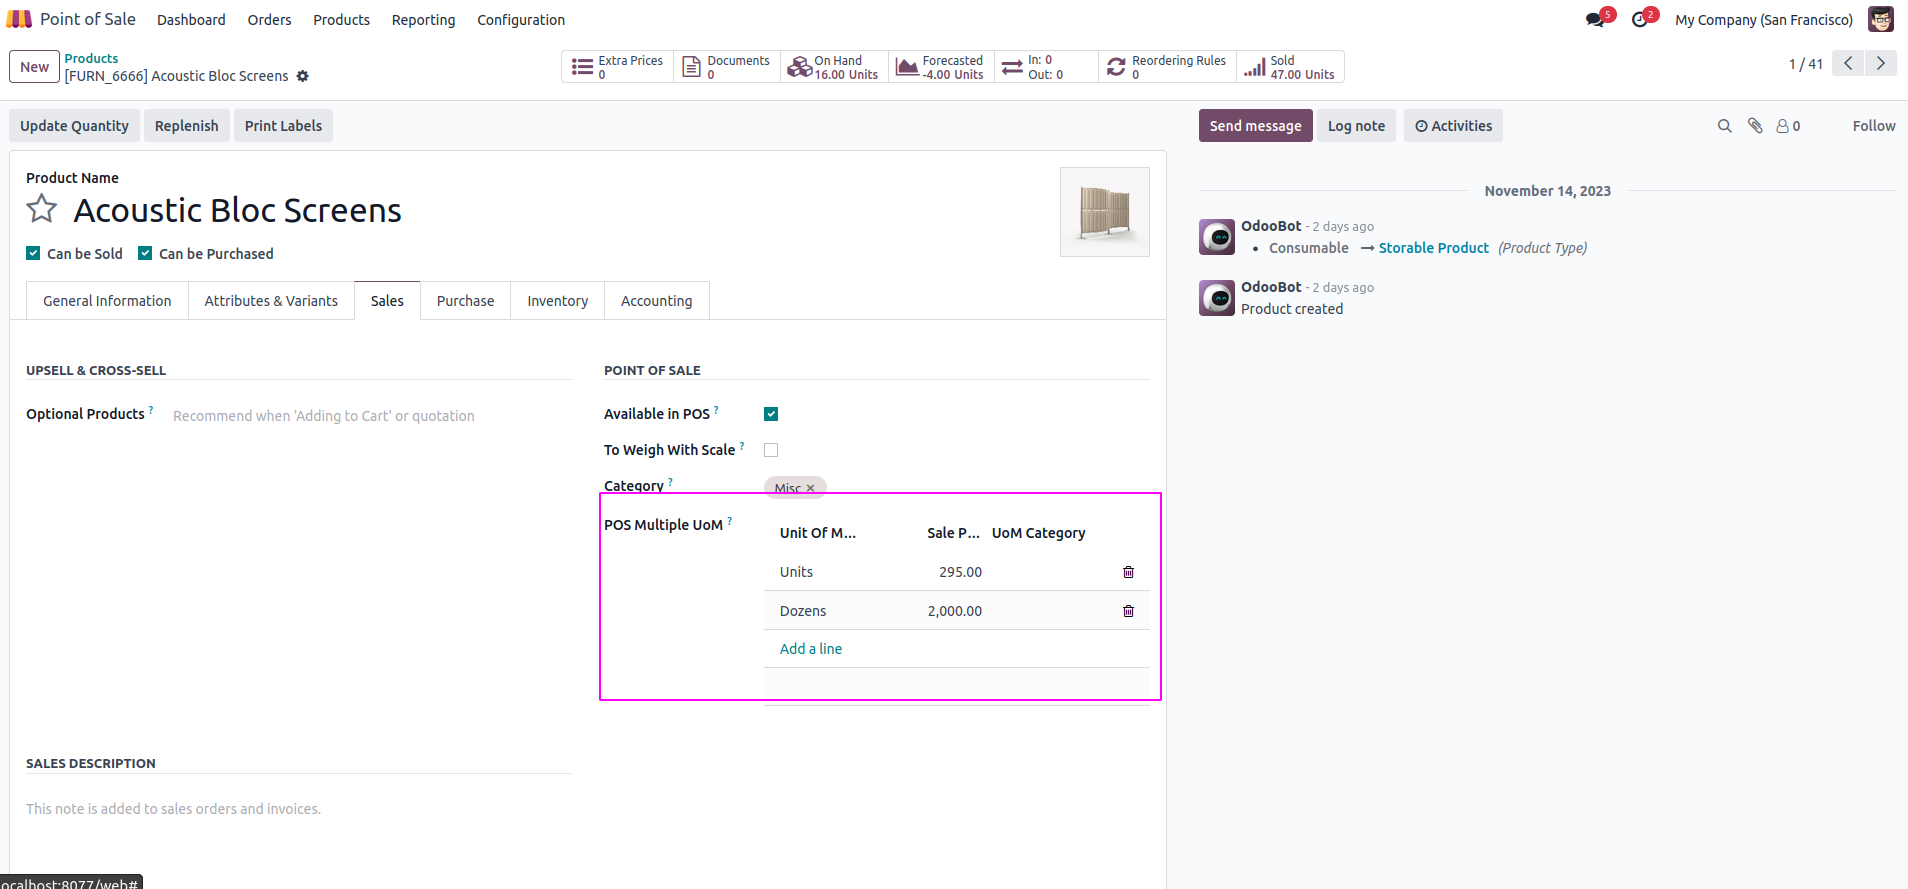
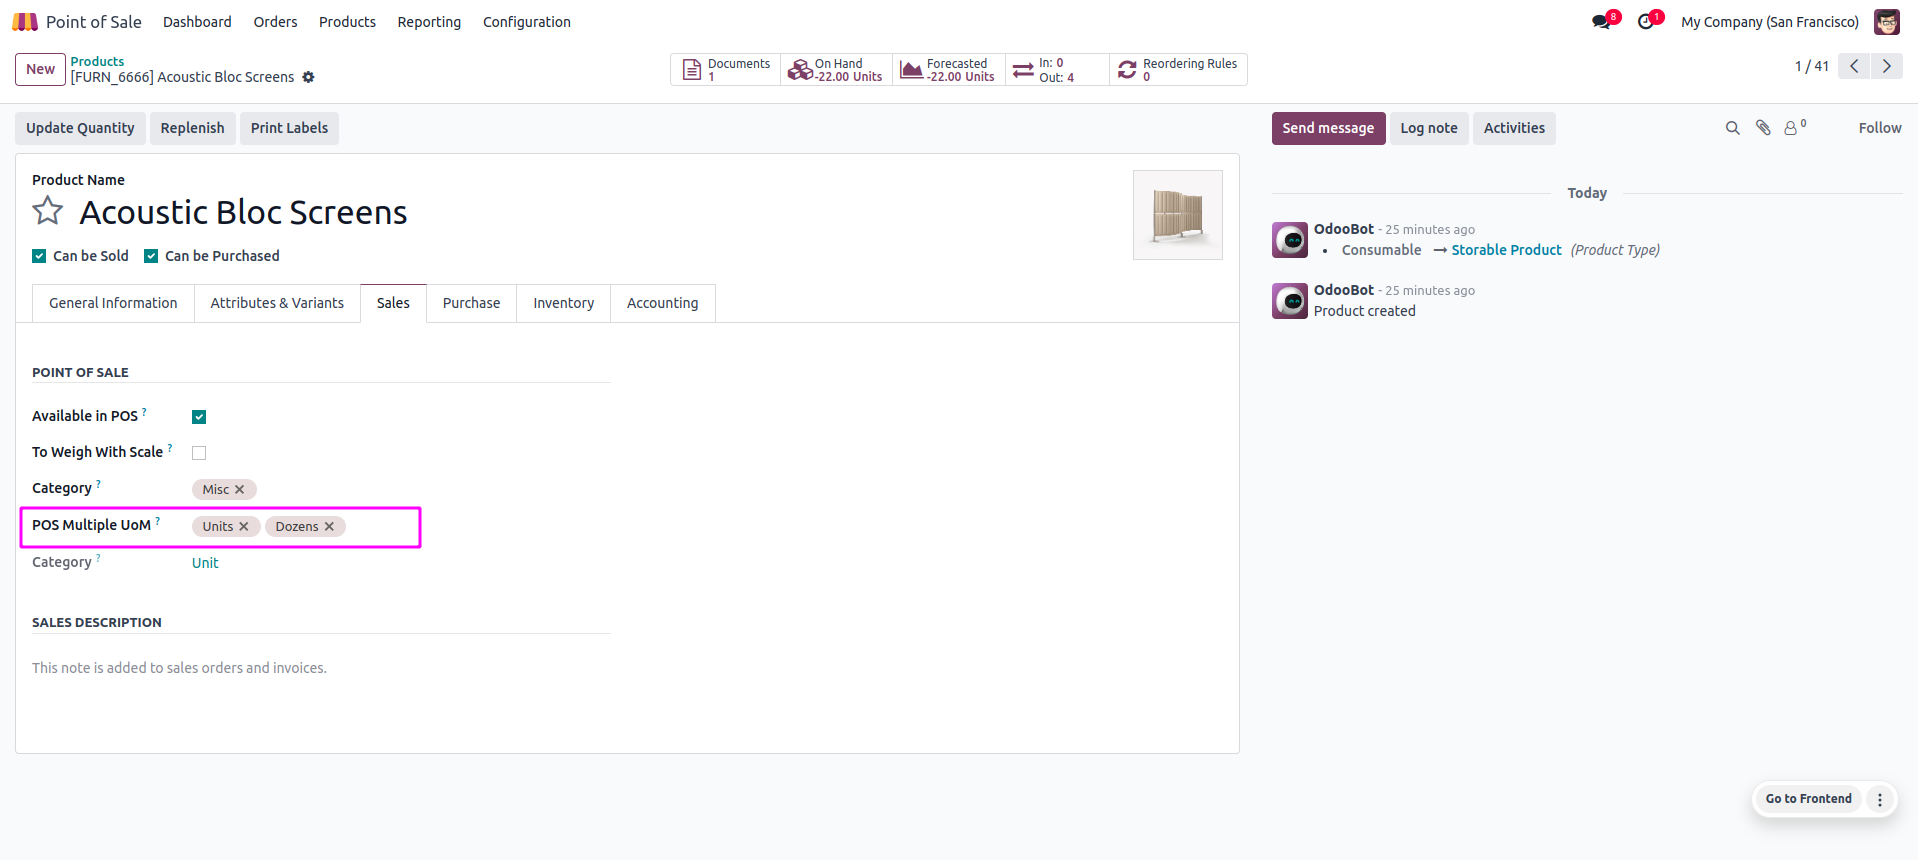
Oct 16: [FIX] Bug fixed 'product_multi_uom_pos'

diff --git a/product_multi_uom_pos/static/description/index.html b/product_multi_uom_pos/static/description/index.html
@@ -169,11 +169,43 @@
                                     style=" font-weight:600 !important; color:#282F33 !important; font-size:1.3rem !important">
                                     Form View of Product </h4>
                                 <p style="font-weight: 400; font-family: 'Montserrat', sans-serif; font-size: 14px;">
-                                    If 'Multiple Unit of Measure' option is
-                                    enabled, you can add
+                                    You can add
                                     multiple units of measures and its price
                                     under 'Sales' tab of
                                     Products as shown.</p>
+
+                            </div>
+                        </div>
+                    </div>
+                    <div class="col-lg-12 py-2"
+                         style="padding: 1rem 4rem !important;">
+                        <div
+                                style="border: 1px solid #d8d6d6; border-radius: 4px;  background: #fff; box-shadow: 0 2px 4px rgba(0, 0, 0, 0.1);">
+                            <div class="row justify-content-center p-3 w-100 m-0">
+                                <img src="assets/screenshots/9.png"
+                                     class="img-responsive" width="100%"
+                                     height="auto">
+                            </div>
+                            <div class="px-3">
+                                <p style="font-weight: 400; font-family: 'Montserrat', sans-serif; font-size: 14px;">
+                                    You can UOM in UOM categories in the Inventory module</p>
+
+                            </div>
+                        </div>
+                    </div>
+                    <div class="col-lg-12 py-2"
+                         style="padding: 1rem 4rem !important;">
+                        <div
+                                style="border: 1px solid #d8d6d6; border-radius: 4px;  background: #fff; box-shadow: 0 2px 4px rgba(0, 0, 0, 0.1);">
+                            <div class="row justify-content-center p-3 w-100 m-0">
+                                <img src="assets/screenshots/10.png"
+                                     class="img-responsive" width="100%"
+                                     height="auto">
+                            </div>
+                            <div class="px-3">
+                                <p style="font-weight: 400; font-family: 'Montserrat', sans-serif; font-size: 14px;">
+                                    Price and unit will be calculated based on the ratio in the UOM
+                                    </p>
 
                             </div>
                         </div>

diff --git a/product_multi_uom_pos/static/src/overrides/models/orderline.js b/product_multi_uom_pos/static/src/overrides/models/orderline.js
@@ -43,17 +43,17 @@ patch(Orderline.prototype, {
     return this.product.get_unit();
     },
     onSelectionChangedUom(ev) {
-            var splitTargetValue = ev.target.value.split(',')
-            var price = splitTargetValue[0]
-            var uomId = splitTargetValue[1]
-            var uomName = splitTargetValue[2]
-            // Set the selected unit of measure on the order line
-            const currentOrder = this.env.services.pos.get_order();
-            currentOrder.selected_orderline.set_uom({0:uomId,1:uomName})
-          // Set the price_manually_set flag to indicate that the price was manually set
-            currentOrder.selected_orderline.price_type = "manual";
-           // Set the unit price of selected UoM on the order line
-            currentOrder.selected_orderline.set_unit_price(price);
+            var uom_id = ev.target.value
+            var selected_uom = this.env.services.pos.units_by_id[uom_id]
+            var selected_product = this.props.slots['product-name'].__ctx.line
+            selected_product.set_uom({0:selected_uom.id,1:selected_uom.name})
+            selected_product.price_type = "manual";
+            if (selected_uom.uom_type == "smaller"){
+                selected_product.set_unit_price(selected_product.product.lst_price * (1 / selected_uom.ratio));
+            } else {
+                selected_product.set_unit_price(selected_product.product.lst_price * selected_uom.ratio);
+            }
+
     },
      getUom(self) {
         const currentOrder = self.env.services.pos.get_order();
@@ -74,6 +74,7 @@ patch(Orderline.prototype, {
             getUom: this.getUom,
             resetUom: this.resetUom,
             onSelectionChangedUom: this.onSelectionChangedUom,
+            multiUom: [...this.product.pos_multi_uom_ids],
         };
     },
 });

diff --git a/product_multi_uom_pos/static/src/overrides/generic_components/orderline/orderline.js b/product_multi_uom_pos/static/src/overrides/generic_components/orderline/orderline.js
@@ -5,18 +5,22 @@ import { useRef } from "@odoo/owl";
 import { patch } from "@web/core/utils/patch";
 
 patch(Orderline.prototype, {
+
+    props: {
+        ...Orderline.props,
+        line: {
+            shape: {
+                multiUom: { type: Array, optional: true },
+                resetUom: { type: Function, optional: true },
+                getUom: { type: Function, optional: true },
+                onSelectionChangedUom: { type: Function, optional: true },
+            },
+        },
+    },
+
     setup(_defaultObj, options) {
         super.setup(...arguments);
         this.select_uom = useRef("uom_value");
     },
+
 });
-Orderline.props = {
-    ...Orderline.props,
-    line: {
-        shape: {
-            resetUom: { type: Function, optional: true },
-            getUom: { type: Function, optional: true },
-            onSelectionChangedUom: { type: Function, optional: true },
-        },
-    },
-};

diff --git a/product_multi_uom_pos/models/product_template.py b/product_multi_uom_pos/models/product_template.py
@@ -27,22 +27,9 @@ class ProductTemplate(models.Model):
     of measure"""
     _inherit = 'product.template'
 
-    multi_uom = fields.Boolean(compute='_compute_multi_uom', string='Multi UoM',
-                               help='A boolean field to show the one2many field'
-                                    'POS Multiple UoM if the Multi UoM option'
-                                    ' is enabled in Configuration settings')
-    pos_multi_uom_ids = fields.One2many('pos.multi.uom', 'product_template_id',
+    product_uom_category_id = fields.Many2one(related='uom_id.category_id')
+    pos_multi_uom_ids = fields.Many2many('uom.uom', 'product_template_id',
                                         string="POS Multiple UoM",
+                                        domain="[('category_id', '=', product_uom_category_id)]",
                                         help='These UoM can be selected from '
                                              'PoS')
-
-    def _compute_multi_uom(self):
-        """
-         Updates the 'multi_uom' field based on the configuration parameter
-          'product_multi_uom_pos.pos_multi_uom'.
-        """
-        status = self.env['ir.config_parameter'].sudo().get_param(
-            'product_multi_uom_pos.pos_multi_uom')
-        self.write({
-            'multi_uom': status
-        })

diff --git a/product_multi_uom_pos/models/stock_picking.py b/product_multi_uom_pos/models/stock_picking.py
@@ -20,6 +20,8 @@
 #
 #############################################################################
 from odoo import models
+from itertools import groupby
+
 
 
 class StockPicking(models.Model):
@@ -45,3 +47,18 @@ class StockPicking(models.Model):
                 'location_dest_id': self.location_dest_id.id,
                 'company_id': self.company_id.id,
             }
+    def _create_move_from_pos_order_lines(self, lines):
+        self.ensure_one()
+        lines_by_product = groupby(
+            sorted(lines, key=lambda l: (l.product_id.id, l.product_uom_id)),
+            key=lambda l: (l.product_id.id, l.product_uom_id)
+        )
+        move_vals = []
+        for dummy, olines in lines_by_product:
+            order_lines = self.env['pos.order.line'].concat(*olines)
+            move_vals.append(self._prepare_stock_move_vals(order_lines[0], order_lines))
+        moves = self.env['stock.move'].create(move_vals)
+        confirmed_moves = moves._action_confirm()
+        confirmed_moves._add_mls_related_to_order(lines, are_qties_done=True)
+        confirmed_moves.picked = True
+        self._link_owner_on_return_picking(lines)

diff --git a/product_multi_uom_pos/__manifest__.py b/product_multi_uom_pos/__manifest__.py
@@ -21,7 +21,7 @@
 #############################################################################
 {
     'name': "POS Product Multiple UOM",
-    'version': '17.0.1.0.1',
+    'version': '17.0.1.0.2',
     'category': 'Point of Sale',
     'summary': """A module to manage multiple UoM in POS""",
     'description': """Using this app, you can change unit of measure of 
@@ -30,10 +30,9 @@
     'company': 'Cybrosys Techno Solutions',
     'maintainer': 'Cybrosys Techno Solutions',
     'website': "https://www.cybrosys.com",
-    'depends': ['base', 'point_of_sale'],
+    'depends': ['point_of_sale', 'uom'],
     'data':
-        [
-            'security/ir.model.access.csv',
+        [   'data/uom_data.xml',
             'views/res_config_settings_views.xml',
             'views/product_template_views.xml',
             'views/pos_order_views.xml',

diff --git a/product_multi_uom_pos/models/pos_session.py b/product_multi_uom_pos/models/pos_session.py
@@ -31,20 +31,3 @@ class PosSession(models.Model):
         result = super()._loader_params_product_product()
         result['search_params']['fields'].append('pos_multi_uom_ids')
         return result
-
-    def _pos_ui_models_to_load(self):
-        """Loading model 'pos.multi.uom' to POS"""
-        result = super()._pos_ui_models_to_load()
-        result.append('pos.multi.uom')
-        return result
-
-    def _loader_params_pos_multi_uom(self):
-        """Loading fields of model 'pos.multi.uom' to POS"""
-        return {
-            'search_params': {
-                'fields': ['uom_id', 'price', 'product_template_id']}
-        }
-
-    def _get_pos_ui_pos_multi_uom(self, params):
-        """Loading new model to POS"""
-        return self.env['pos.multi.uom'].search_read(**params['search_params'])

diff --git a/product_multi_uom_pos/models/res_config_settings.py b/product_multi_uom_pos/models/res_config_settings.py
@@ -19,7 +19,8 @@
 #    If not, see <http://www.gnu.org/licenses/>.
 #
 #############################################################################
-from odoo import fields, models
+from odoo import api, fields, models
+from odoo.tools import decode_message_header
 
 
 class ResConfigSettings(models.TransientModel):

diff --git a/product_multi_uom_pos/models/__init__.py b/product_multi_uom_pos/models/__init__.py
@@ -26,4 +26,3 @@ from . import stock_picking
 from . import pos_config
 from . import report_sale_details
 from . import res_config_settings
-from . import pos_multi_uom

diff --git a/product_multi_uom_pos/doc/RELEASE_NOTES.md b/product_multi_uom_pos/doc/RELEASE_NOTES.md
@@ -19,3 +19,10 @@
 #### Version 17.0.1.0.1
 ##### UPDT
 - Bug Fix - Resolved the issue of UOM shown in sales details report
+
+#### 16.10.2024
+#### Version 17.0.1.0.2
+##### UPDT
+- Bug Fix - 1) Changed the workflow, Unit and price will be automatically calculated on the basis of selected UOM ratio.
+            2) Resolved issue with the multiple order lines in the POS.
+            3) Resolved the issue in the delivery.
